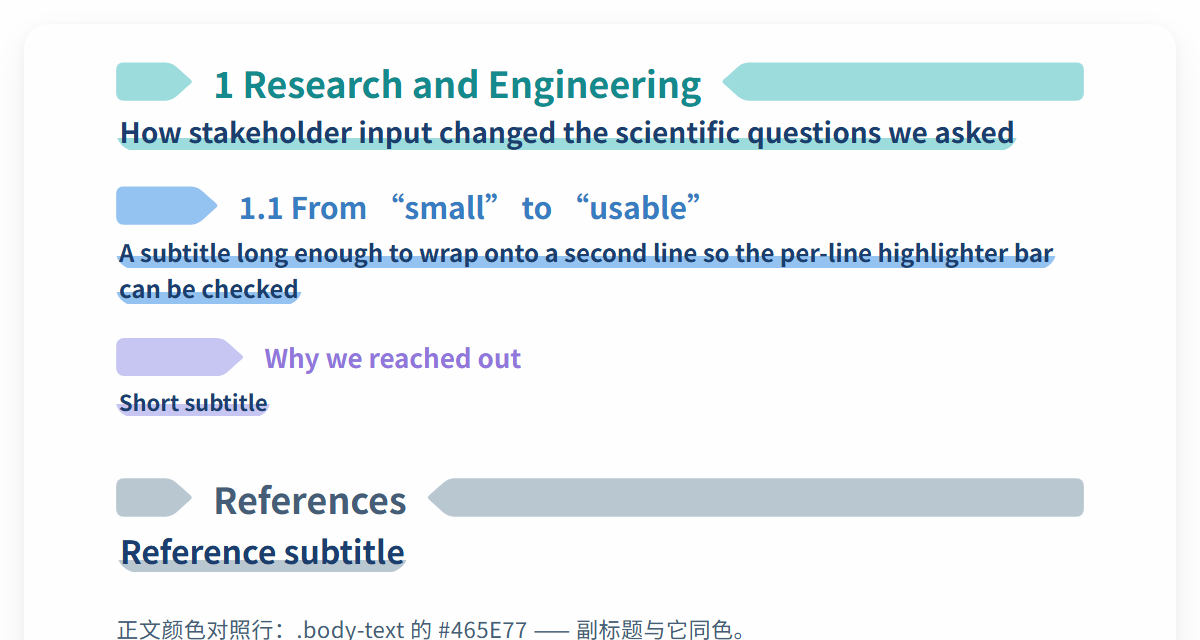
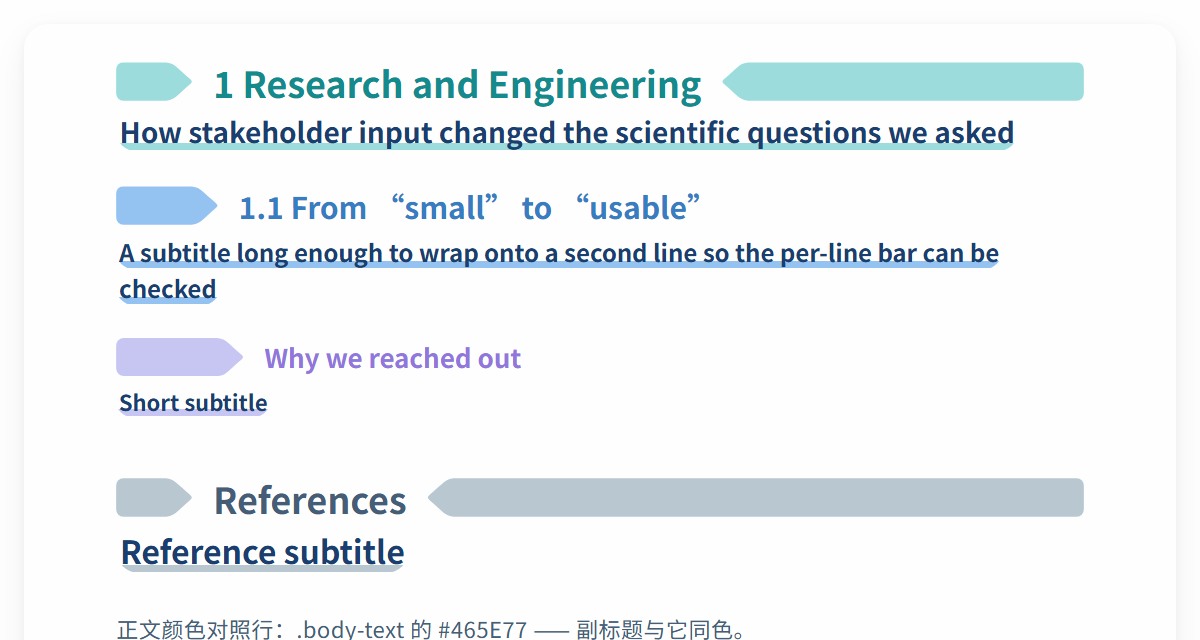
title

diff --git a/static/description/description.css b/static/description/description.css
@@ -1444,8 +1444,8 @@ mark {
    .heading-reference）在主标题下方加一条副标题：文字颜色用正文色 #465E77，
    底色是主标题那枚装饰矩形的颜色（H1 #9CDCDD / H2 #95C3F1 / H3 #C7C6F2 /
    Reference #B9C7D1，见第 4 节 ::before 的 background-color），形状不是
-   裹住整行文字的圆角矩形，而是像荧光笔一样横着画在文字【下方】的一条
-   粗圆边色带。
+   裹住整行文字的圆角矩形，而是像荧光笔（或一条加粗下划线）一样横着画在
+   文字【下方】的一条圆边色带。
 
    实现：底色由 .heading-sub 自己的 background 画 —— 一层
    linear-gradient，上半段全透明（露在文字后面不遮挡），下半段是那条色
@@ -1513,13 +1513,14 @@ mark {
 
 /* ---------- 14.2 副标题本体：文字下方一条荧光笔色带 ---------- */
 .heading-sub {
-    /* 色带的几何：都做成变量，想调形状只改这三行。
+    /* 色带的几何：都做成变量，想调形状只改这三个变量。
        --heading-sub-bar    色带颜色（各级在 14.1 / 14.3 里给）
-       --heading-sub-thick  色带厚度（绝对值 px：不随字号缩放，各级看起来一样粗）
+       --heading-sub-thick  色带厚度（绝对值 px：不随字号缩放，各级看起来一样粗；
+                            默认 7px —— 比第一版的 12px 细，接近一条加粗的下划线）
        --heading-sub-drop   色带下移多少 px：把色带压到文字下沿再往下一点点，
                             这样只有字母的“脚”（下伸部）会搭在色带上，
                             主体笔画不会被盖住 —— 荧光笔划过字下的观感 */
-    --heading-sub-thick: 12px;
+    --heading-sub-thick: 7px;
     --heading-sub-drop: 1px;
 
     display: inline;             /* 宽度随文字伸缩；换行时逐行画色带 */
@@ -1562,7 +1563,8 @@ mark {
        ascent 1.103em + descent 0.339em，与 line-height 无关），
        行高 1.5em → 行间空白 ≈ 1.5 − 1.44 ≈ 0.06em（22 / 26 / 32px 时约
        1.3 / 1.6 / 1.9px），加上色带本身上下各让出的那点空间，两行色带之间
-       保留一条极窄的白缝（与主标题的紧凑观感一致）。
+       保留一条极窄的白缝（与主标题的紧凑观感一致）——色带越细这道缝越宽，
+       7px 时约 5~7px，仍是一条窄缝而不是一行空隙。
        要把间隔拉大 / 收窄，只改这一个数。 */
     line-height: 1.5;
 }
